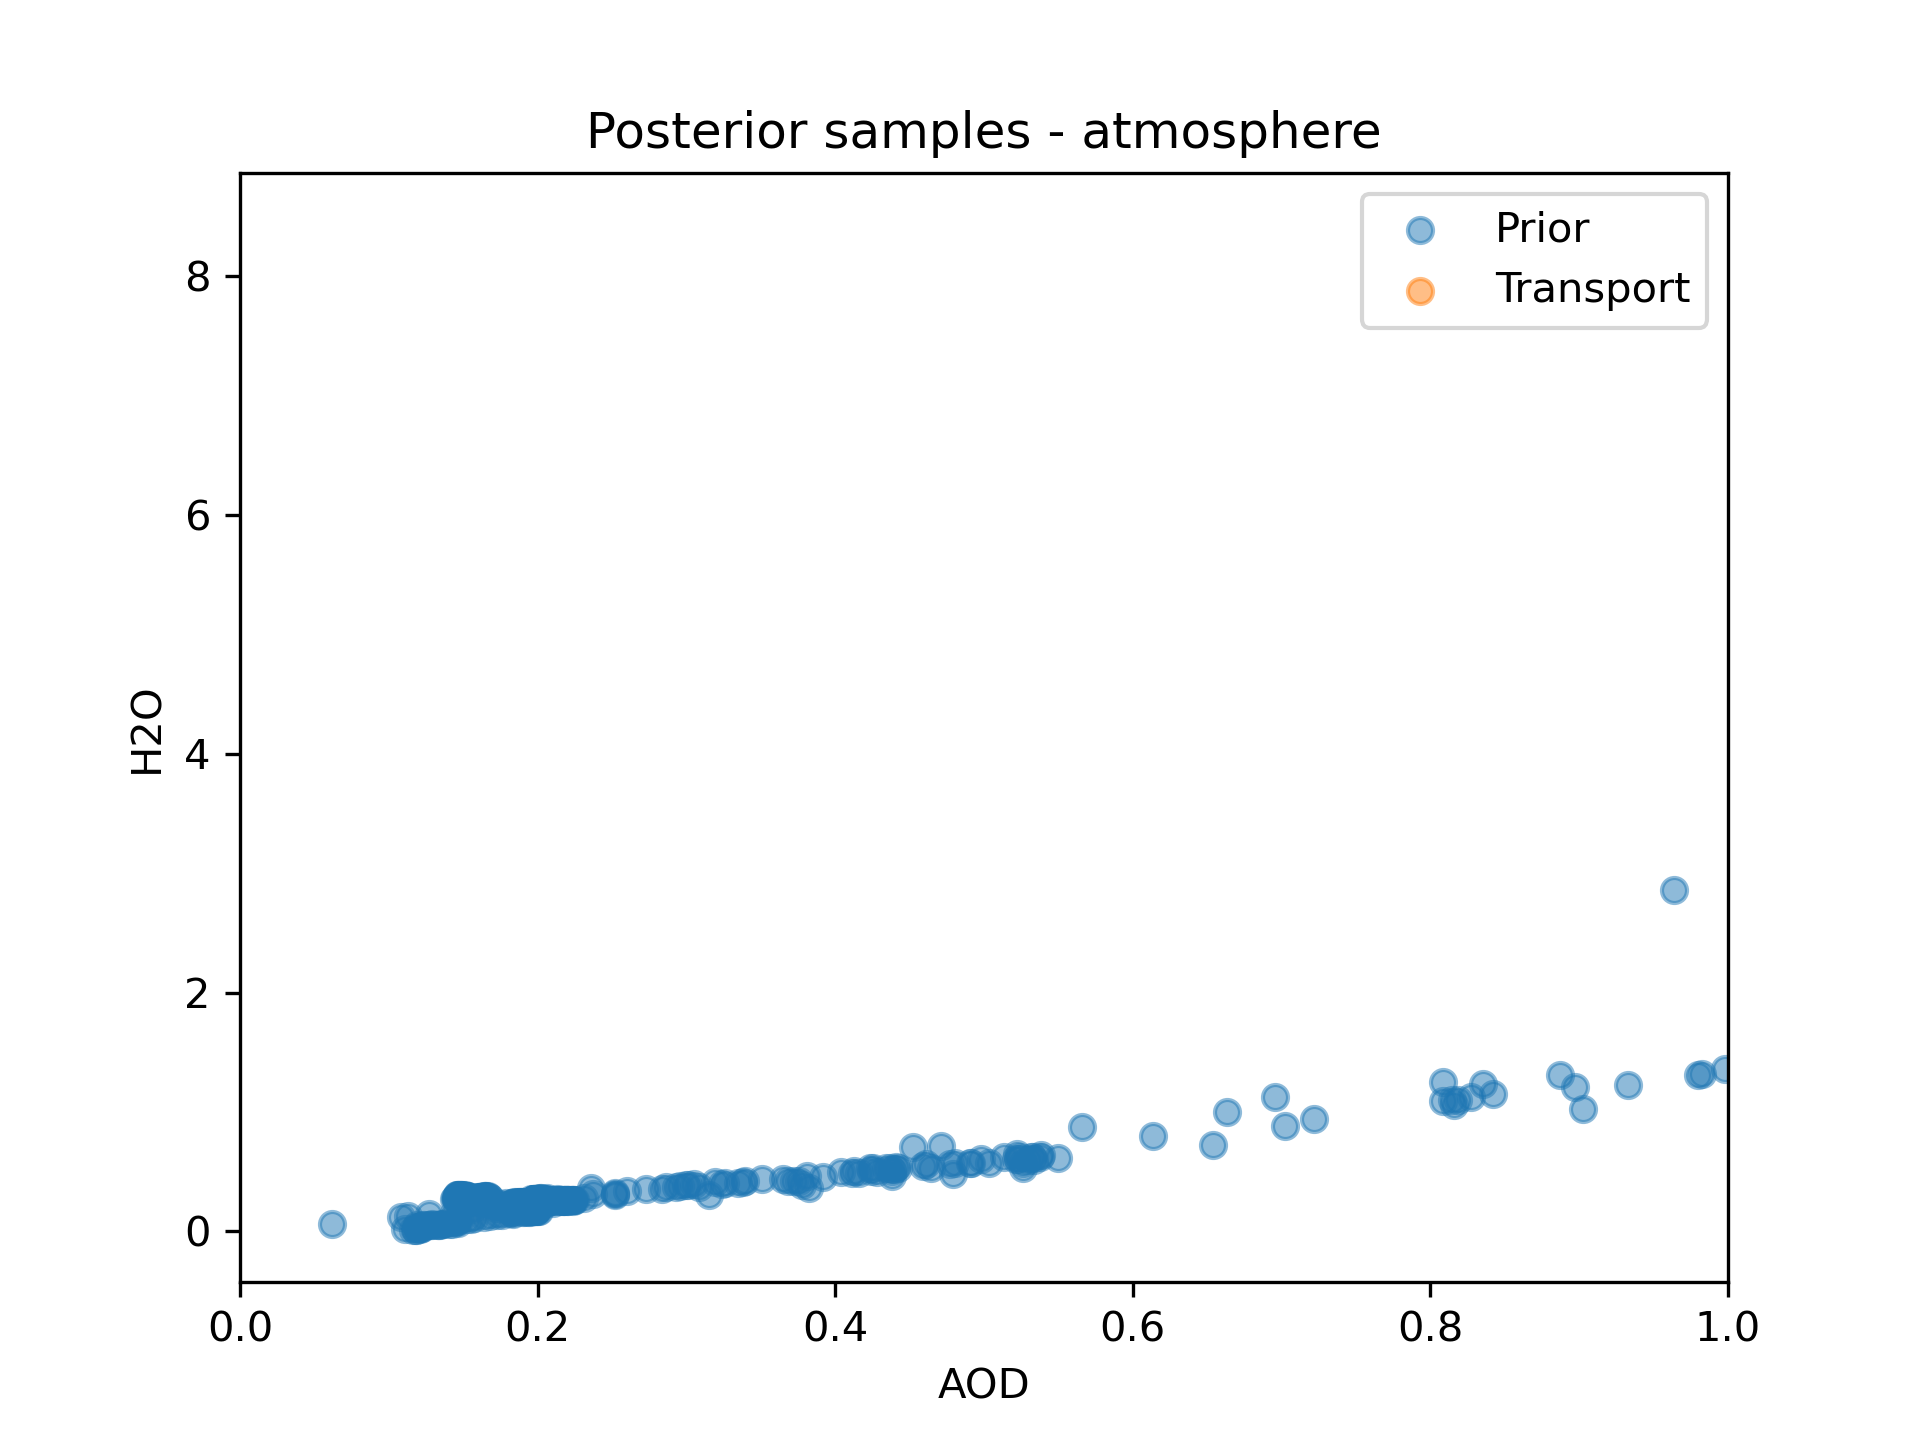
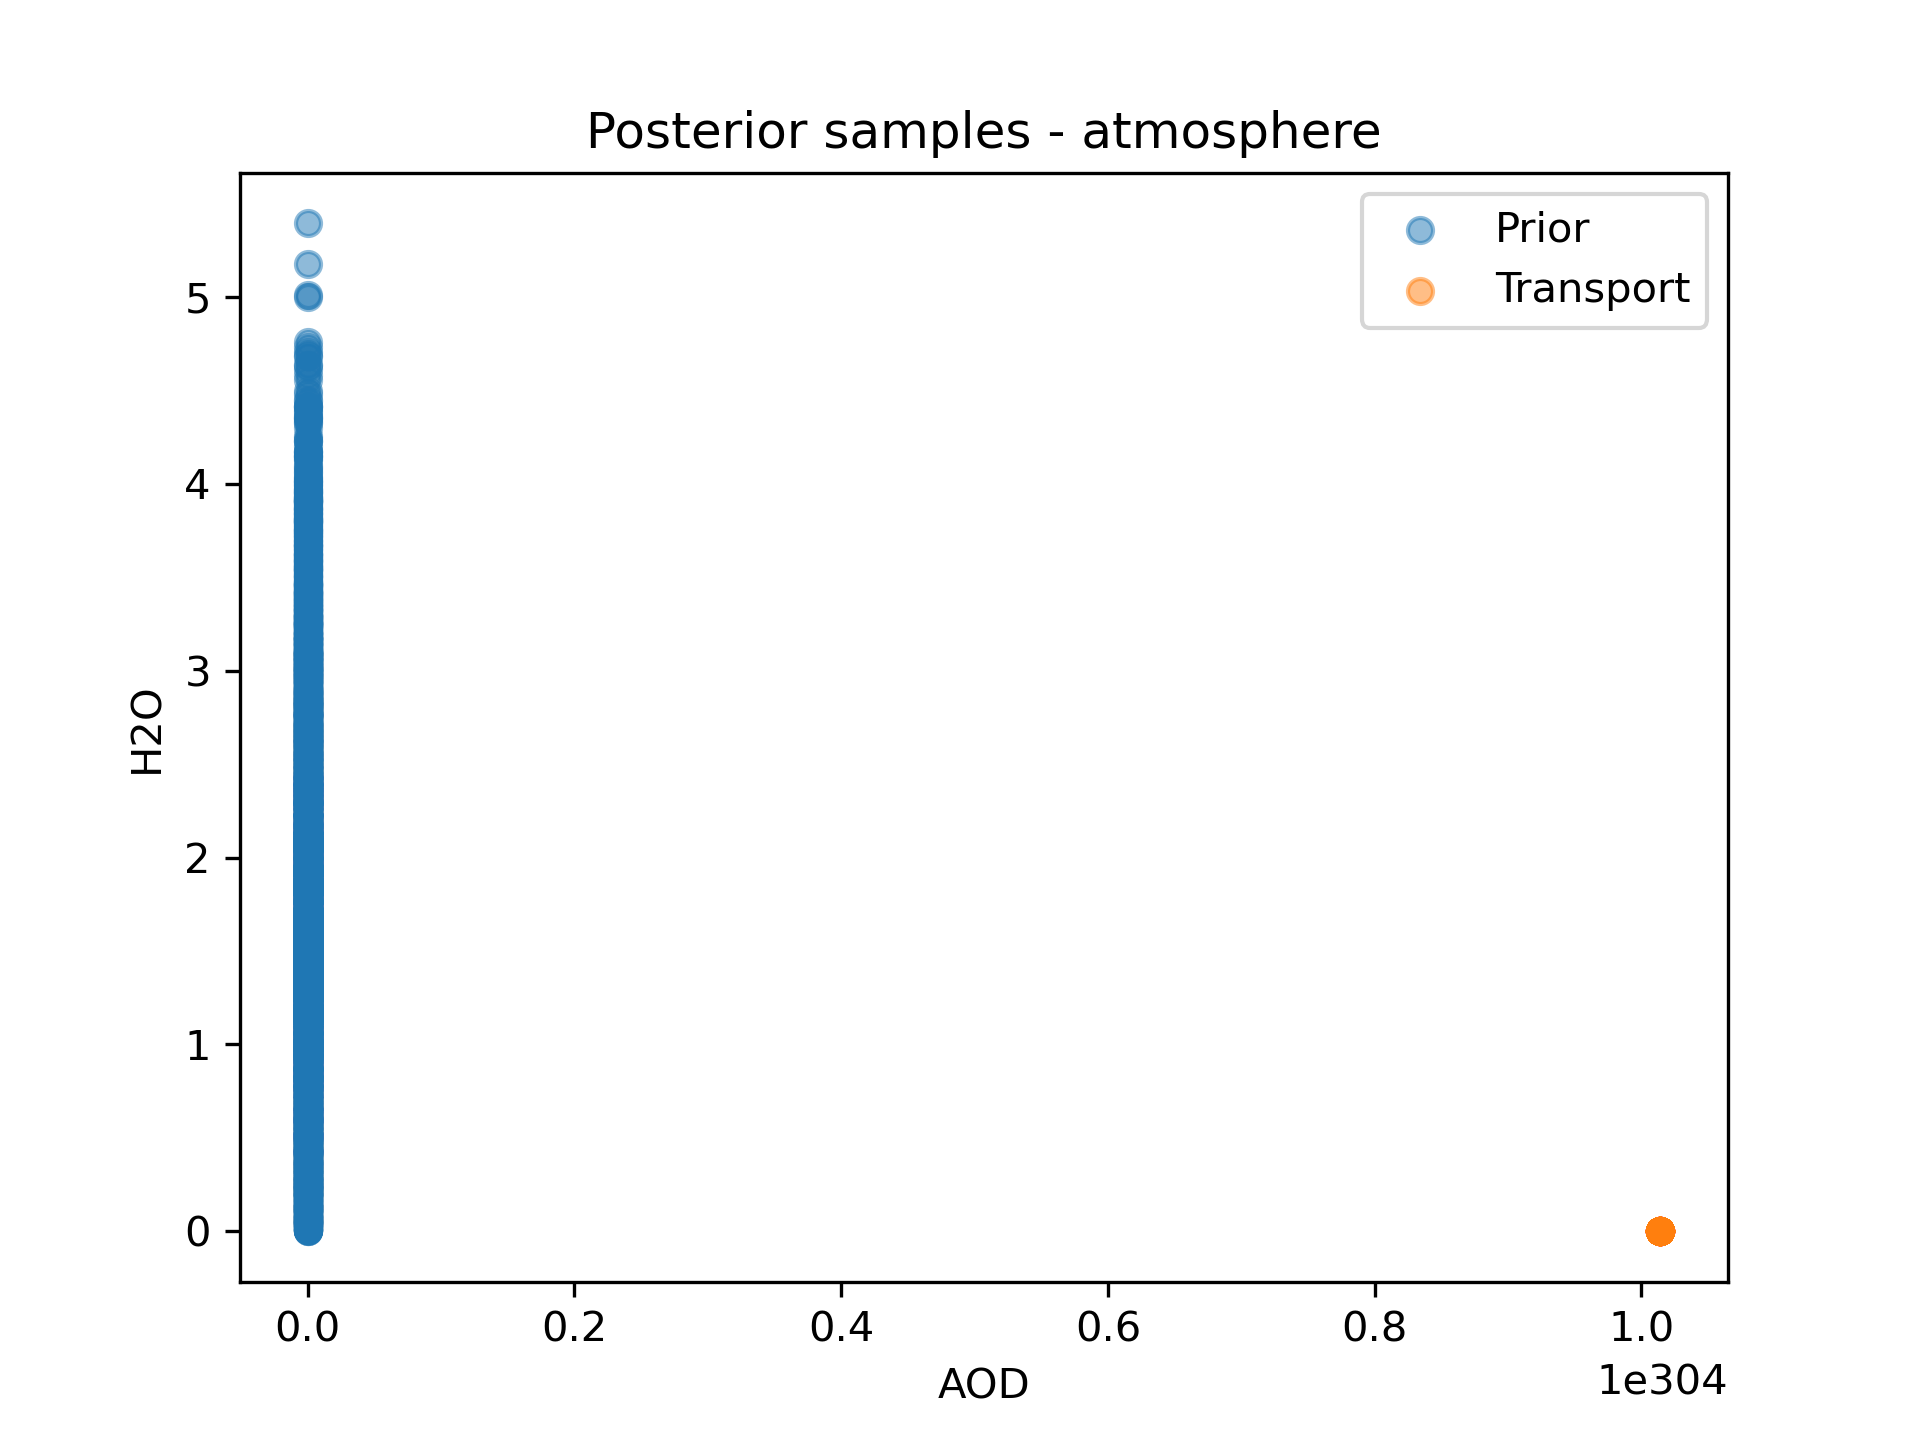
update

diff --git a/data.py b/data.py
@@ -82,7 +82,7 @@ def plot_for_comparison(data_path, num_sample, pca_components_x, tol, bestParams
     y_normalised = torch.tensor(y_normalised, dtype=torch.float32).to(device)
     x_generated, _ = generate_sample(y_normalised, num_sample, pca_components_x, tol, bestParams_picnn_model)
     
-    # Process
+    # Processx
     if x_generated.ndim == 1:
         x_generated = x_generated.reshape(-1,1)
 
@@ -97,14 +97,14 @@ def plot_for_comparison(data_path, num_sample, pca_components_x, tol, bestParams
     mu_pos = np.mean(X_star_refl, 0)
     gamma_pos = np.cov(X_star_refl.T)
 
-    plt.figure()
-    plt.plot(wls, x_isofit_mu, 'b', alpha=0.7, label="Pos MAP - Isofit")
-    plt.plot(wls, mu_pos, 'g-.', alpha=0.7, label="Transport")
-    plt.xlabel("Wavelength")
-    plt.ylabel("Reflectance")
-    plt.title("Posterior mean")
-    plt.legend()
-    plt.savefig(f'plots/refl_pos_mean_{data_filename}_1.png', dpi=300)
+    # plt.figure()
+    # plt.plot(wls, x_isofit_mu, 'b', alpha=0.7, label="Pos MAP - Isofit")
+    # plt.plot(wls, mu_pos, 'g-.', alpha=0.7, label="Transport")
+    # plt.xlabel("Wavelength")
+    # plt.ylabel("Reflectance")
+    # plt.title("Posterior mean")
+    # plt.legend()
+    # plt.savefig(f'plots/refl_pos_mean_{data_filename}_1.png', dpi=300)
 
     plt.figure()
     plt.plot(wls, x_truth, 'r', alpha=1, linewidth=3,label="Truth")
@@ -131,7 +131,7 @@ def plot_for_comparison(data_path, num_sample, pca_components_x, tol, bestParams
     plt.legend()
     plt.savefig(f'plots/refl_pos_var_{data_filename}.png', dpi=300)
 
-    data = np.load(data_path, allow_pickle=True)
+    data = np.load(data_path, allow_pickle=True).T
     plt.figure()
     plt.scatter(data[:,326], data[:,327], alpha=0.5,label='Prior')
     plt.scatter(x_generated[:,0], x_generated[:,1], alpha=0.5,label='Transport')
@@ -139,13 +139,11 @@ def plot_for_comparison(data_path, num_sample, pca_components_x, tol, bestParams
     plt.ylabel('H2O')
     plt.legend()
     plt.title('Posterior samples - atmosphere')
-    plt.xlim((0,1))
     plt.savefig(f'plots/atm_pos_samp_{data_filename}.png', dpi=300)
 
     return x_generated
 
-# checkpoint_path = 'experiments/tabcond/177/177_2024_06_07_07_01_15_32_0.01_3_256_checkpt.pth'
-checkpoint_path = 'experiments/sw_100k_64_0.001_3_256_checkpt.pth'
+checkpoint_path = 'experiments/tabcond/177/177_2024_06_07_07_01_15_32_0.01_3_256_checkpt.pth'
 checkpoint = torch.load(checkpoint_path)
 
 input_x_dim = 40
@@ -160,4 +158,5 @@ pcpmap = PCPMap(prior_picnn, picnn).to(device)
 
 pcpmap.load_state_dict(checkpoint['state_dict_picnn'])
 
-plot_for_comparison('ens/177.p', 50, 40, 1e-06, pcpmap, 40, 0.1, 42)
+x_generated = plot_for_comparison('ens/177.p', 100, 40, 1e-06, pcpmap, 40, 0.1, 42)
+print(x_generated)
